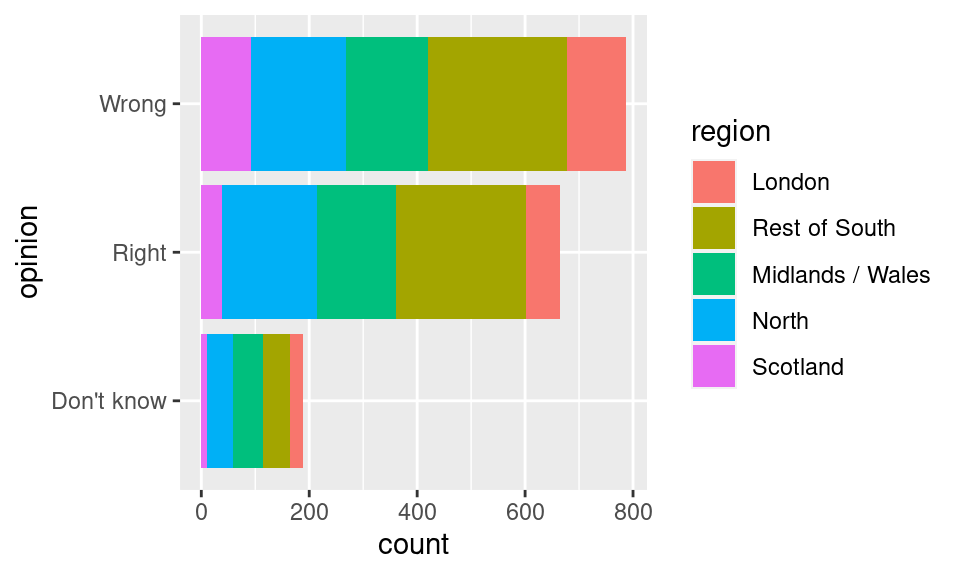
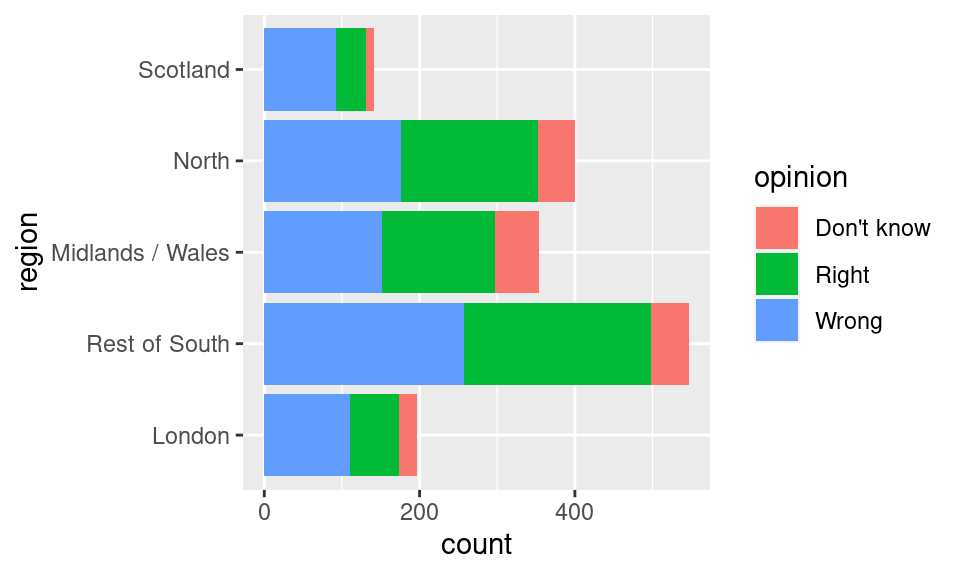
Built site for gh-pages

diff --git a/socialmedia.html b/socialmedia.html
@@ -7,7 +7,7 @@
 <meta name="viewport" content="width=device-width, initial-scale=1.0, user-scalable=yes">
 
 
-<title>Visual Communication and Data Storytelling - Schedule</title>
+<title>Visual Communication and Data Storytelling - Data Science Social Media</title>
 <style>
 code{white-space: pre-wrap;}
 span.smallcaps{font-variant: small-caps;}
@@ -90,7 +90,7 @@ ul.task-list li input[type="checkbox"] {
     </nav>
   <nav class="quarto-secondary-nav" data-bs-toggle="collapse" data-bs-target="#quarto-sidebar" aria-controls="quarto-sidebar" aria-expanded="false" aria-label="Toggle sidebar navigation" onclick="if (window.quartoToggleHeadroom) { window.quartoToggleHeadroom(); }">
     <div class="container-fluid d-flex justify-content-between">
-      <h1 class="quarto-secondary-nav-title">Schedule</h1>
+      <h1 class="quarto-secondary-nav-title">Data Science Social Media</h1>
       <button type="button" class="quarto-btn-toggle btn" aria-label="Show secondary navigation">
         <i class="bi bi-chevron-right"></i>
       </button>
@@ -115,7 +115,7 @@ ul.task-list li input[type="checkbox"] {
 </li>
         <li class="sidebar-item">
   <div class="sidebar-item-container"> 
-  <a href="./schedule.html" class="sidebar-item-text sidebar-link active"><strong>Schedule</strong></a>
+  <a href="./schedule.html" class="sidebar-item-text sidebar-link"><strong>Schedule</strong></a>
   </div>
 </li>
         <li class="sidebar-item">
@@ -128,14 +128,20 @@ ul.task-list li input[type="checkbox"] {
 </nav>
 <!-- margin-sidebar -->
     <div id="quarto-margin-sidebar" class="sidebar margin-sidebar">
-        
+        <nav id="TOC" role="doc-toc" class="toc-active">
+    <h2 id="toc-title">On this page</h2>
+   
+  <ul>
+  <li><a href="#data-science-on-social-media" id="toc-data-science-on-social-media" class="nav-link active" data-scroll-target="#data-science-on-social-media"><span class="toc-section-number">1</span>  Data Science on Social Media</a></li>
+  </ul>
+</nav>
     </div>
 <!-- main -->
 <main class="content" id="quarto-document-content">
 
 <header id="title-block-header" class="quarto-title-block default">
 <div class="quarto-title">
-<h1 class="title d-none d-lg-block">Schedule</h1>
+<h1 class="title d-none d-lg-block">Data Science Social Media</h1>
 </div>
 
 
@@ -150,143 +156,13 @@ ul.task-list li input[type="checkbox"] {
 
 </header>
 
-<div class="callout-important callout callout-style-default callout-captioned">
-<div class="callout-header d-flex align-content-center" data-bs-toggle="collapse" data-bs-target=".callout-1-contents" aria-controls="callout-1" aria-expanded="true" aria-label="Toggle callout">
-<div class="callout-icon-container">
-<i class="callout-icon"></i>
-</div>
-<div class="callout-caption-container flex-fill">
-Developing Schedule
-</div>
-<div class="callout-btn-toggle d-inline-block border-0 py-1 ps-1 pe-0 float-end"><i class="callout-toggle"></i></div>
-</div>
-<div id="callout-1" class="callout-1-contents callout-collapse collapse show">
-<div class="callout-body-container callout-body">
-<p>A draft schedule will be published here in Week 1.</p>
-<p>The schedule is tentative it will be continuously updated also with readings, preparation tasks, pointers to student contributions.</p>
-</div>
-</div>
-</div>
-<table class="table">
-<colgroup>
-<col style="width: 5%">
-<col style="width: 10%">
-<col style="width: 48%">
-<col style="width: 19%">
-<col style="width: 19%">
-</colgroup>
-<thead>
-<tr class="header">
-<th>Week</th>
-<th>Dates</th>
-<th>Topic</th>
-<th>Milestones</th>
-<th>Reading</th>
-</tr>
-</thead>
-<tbody>
-<tr class="odd">
-<td>1</td>
-<td>09-05</td>
-<td>What is Visual Communication? What is Data Storytelling? <a href="https://docs.google.com/presentation/d/1-lkWjK82l1x-9ety4AHINQ4UF3VJ9jqPLIT966ZN0D0/edit?usp=sharing">Slides Week 1</a></td>
-<td></td>
-<td></td>
-</tr>
-<tr class="even">
-<td>2</td>
-<td>09-12</td>
-<td>Your Data Visualizations from <a href="./hw-01-instr.html">Homework 1</a>, <a href="./Towards_Great_Visualization_Brexit.html">Towards Good Graphics, Example</a>, Activity (link to presentation at <a href="https://github.com/CU-F23-MDSSB-MET-03-VisCommDataStory/Organization">Organization repo</a>), Possible project data sources</td>
-<td>Homework 1 done.</td>
-<td></td>
-</tr>
-<tr class="odd">
-<td>3</td>
-<td>09-19</td>
-<td>Data Story Formats</td>
-<td>Project topics and teams drafted</td>
-<td>Dykes: Ch 1 and 2</td>
-</tr>
-<tr class="even">
-<td>4</td>
-<td>09-26</td>
-<td></td>
-<td>Project topics and teams fixed</td>
-<td></td>
-</tr>
-<tr class="odd">
-<td>-</td>
-<td>10-03</td>
-<td><em>No class, public holiday</em></td>
-<td></td>
-<td></td>
-</tr>
-<tr class="even">
-<td>5</td>
-<td>10-10</td>
-<td>Student project pitches (~5 min. per project with first visual and one story point )</td>
-<td></td>
-<td></td>
-</tr>
-<tr class="odd">
-<td>6</td>
-<td>10-17</td>
-<td></td>
-<td></td>
-<td></td>
-</tr>
-<tr class="even">
-<td>7</td>
-<td>10-24</td>
-<td></td>
-<td></td>
-<td></td>
-</tr>
-<tr class="odd">
-<td>-</td>
-<td>10-31</td>
-<td><em>No class, public holiday</em></td>
-<td></td>
-<td></td>
-</tr>
-<tr class="even">
-<td>8</td>
-<td>11-07</td>
-<td></td>
-<td></td>
-<td></td>
-</tr>
-<tr class="odd">
-<td>9</td>
-<td>11-18</td>
-<td></td>
-<td></td>
-<td></td>
-</tr>
-<tr class="even">
-<td>10</td>
-<td>11-21</td>
-<td></td>
-<td></td>
-<td></td>
-</tr>
-<tr class="odd">
-<td>11</td>
-<td>11-28</td>
-<td>Final Student Presentations</td>
-<td></td>
-<td></td>
-</tr>
-<tr class="even">
-<td>12</td>
-<td>12-05</td>
-<td>Final Student Presentations</td>
-<td></td>
-<td></td>
-</tr>
-</tbody>
-</table>
+<section id="data-science-on-social-media" class="level2" data-number="1">
+<h2 data-number="1" class="anchored" data-anchor-id="data-science-on-social-media"><span class="header-section-number">1</span> Data Science on Social Media</h2>
+<p>Many people talk data science and related things on social media. Some people even make a business publishing short snippets because they love communicating about data science but also trying to attract you to their newsletters or courses. Also many developpers of R or python packages are on social media occassionally posting new releases, ideas, or reacting.</p>
+<p>A reddit thread <a href="https://www.reddit.com/r/datascience/comments/16dk5b6/r_vs_python_detailed_examples_from_proficient/" class="uri">https://www.reddit.com/r/datascience/comments/16dk5b6/r_vs_python_detailed_examples_from_proficient/</a></p>
 
 
+</section>
 
 </main> <!-- /main -->
 <script id="quarto-html-after-body" type="application/javascript">

diff --git a/Towards_Great_Visualization_Brexit.html b/Towards_Great_Visualization_Brexit.html
@@ -724,7 +724,7 @@ Jan Lorenz
 </div>
 </div>
 <div id="tabset-10-4">
-<div class="sourceCode" id="cb11"><pre class="sourceCode numberSource r number-lines code-with-copy"><code class="sourceCode r"><span id="cb11-1"><a href="#cb11-1"></a><span class="fu">ggplot</span>(brexit, <span class="fu">aes</span>(<span class="at">y =</span> opinion, <span class="at">fill =</span> region)) <span class="sc">+</span></span>
+<div class="sourceCode" id="cb11"><pre class="sourceCode numberSource r number-lines code-with-copy"><code class="sourceCode r"><span id="cb11-1"><a href="#cb11-1"></a><span class="fu">ggplot</span>(brexit, <span class="fu">aes</span>(<span class="at">y =</span> region, <span class="at">fill =</span> opinion))<span class="er">)</span> <span class="sc">+</span></span>
 <span id="cb11-2"><a href="#cb11-2"></a>  <span class="fu">geom_bar</span>()</span></code><button title="Copy to Clipboard" class="code-copy-button"><i class="bi"></i></button></pre></div>
 </div>
 </div>
